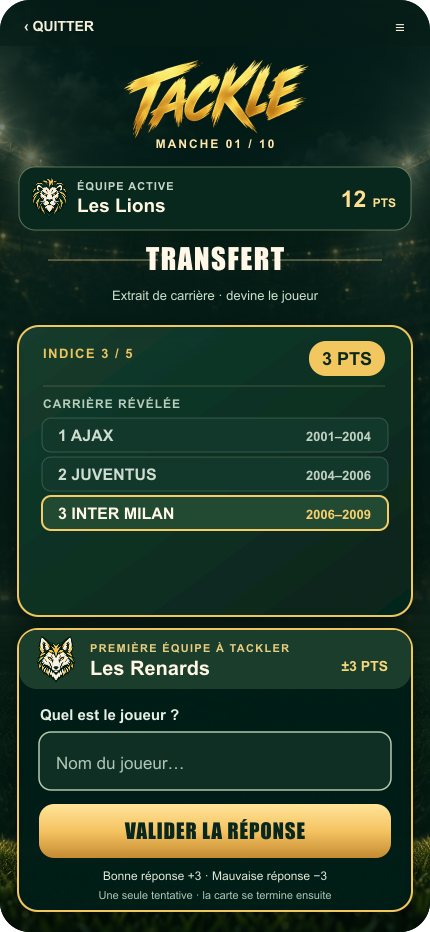
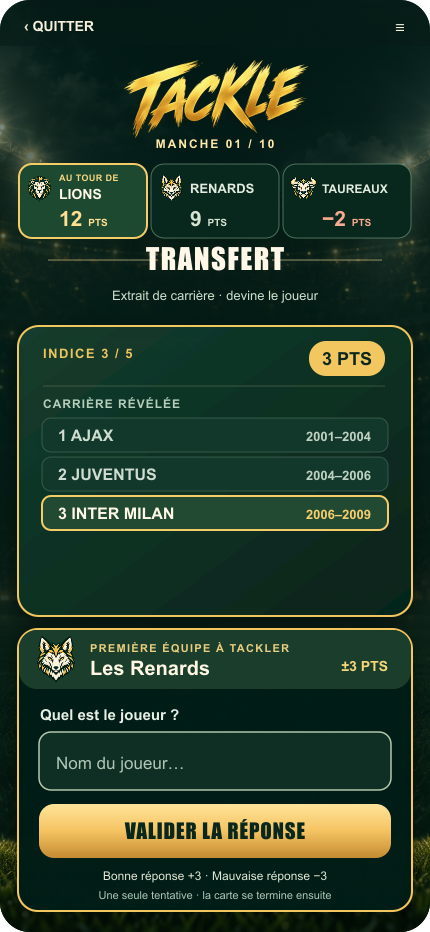
Show every team score in Transfert UI mockups

Changed region(s): [[0.0302, 0.1556, 0.9674, 0.28]]

diff --git a/docs/UI_TRANSFERT_FLOW.md b/docs/UI_TRANSFERT_FLOW.md
@@ -9,6 +9,7 @@ Référence visuelle pour l'intégration du défi Transfert dans l'ambiance stad
 | Premier indice | [01-transfert-indice-1.png](ui/01-transfert-indice-1.png) |
 | Deuxième indice | [02-transfert-indice-2.png](ui/02-transfert-indice-2.png) |
 | Troisième indice | [03-transfert-indice-3.png](ui/03-transfert-indice-3.png) |
+| Quatre équipes : tous les scores visibles | [10-transfert-4-equipes.png](ui/10-transfert-4-equipes.png) |
 | Tackle : identifier l'équipe | [04-transfert-tackle-choix-equipe.png](ui/04-transfert-tackle-choix-equipe.png) |
 | Tackle : saisir sa réponse | [05-transfert-tackle-reponse.png](ui/05-transfert-tackle-reponse.png) |
 | Réponse active : saisir | [06-transfert-reponse-saisie.png](ui/06-transfert-reponse-saisie.png) |
@@ -18,6 +19,7 @@ Référence visuelle pour l'intégration du défi Transfert dans l'ambiance stad
 
 ## Comportement
 
+- Le haut de l'écran montre **les scores de toutes les équipes**, pas seulement de l'équipe active. Son encadré est doré. Avec trois équipes, les scores tiennent sur une ligne ; avec quatre, ils sont disposés sur deux lignes. Les scores négatifs restent visibles. Les noms longs doivent être abrégés sans cacher les points. Les scores se mettent à jour dès le résultat, y compris après un Tackle.
 - **Aucune mention du porteur du téléphone**. N'importe qui peut le manipuler, y compris l'équipe active ou un maître du jeu. L'écran indique seulement l'équipe active et, lors d'un Tackle, l'équipe adverse désignée.
 - Les indices déjà révélés restent tous visibles, dans l'ordre de la carrière. Chaque ligne conserve la même hauteur ; seul le dernier indice a un encadré doré. Il faut maintenir cette lisibilité jusqu'au cinquième indice sans déplacer les lignes précédentes.
 - L'équipe active peut répondre ou passer. Passer affiche directement l'indice suivant, sans pénalité, avec un palier de points plus faible. Nous conservons ce comportement pour le prochain test réel.
